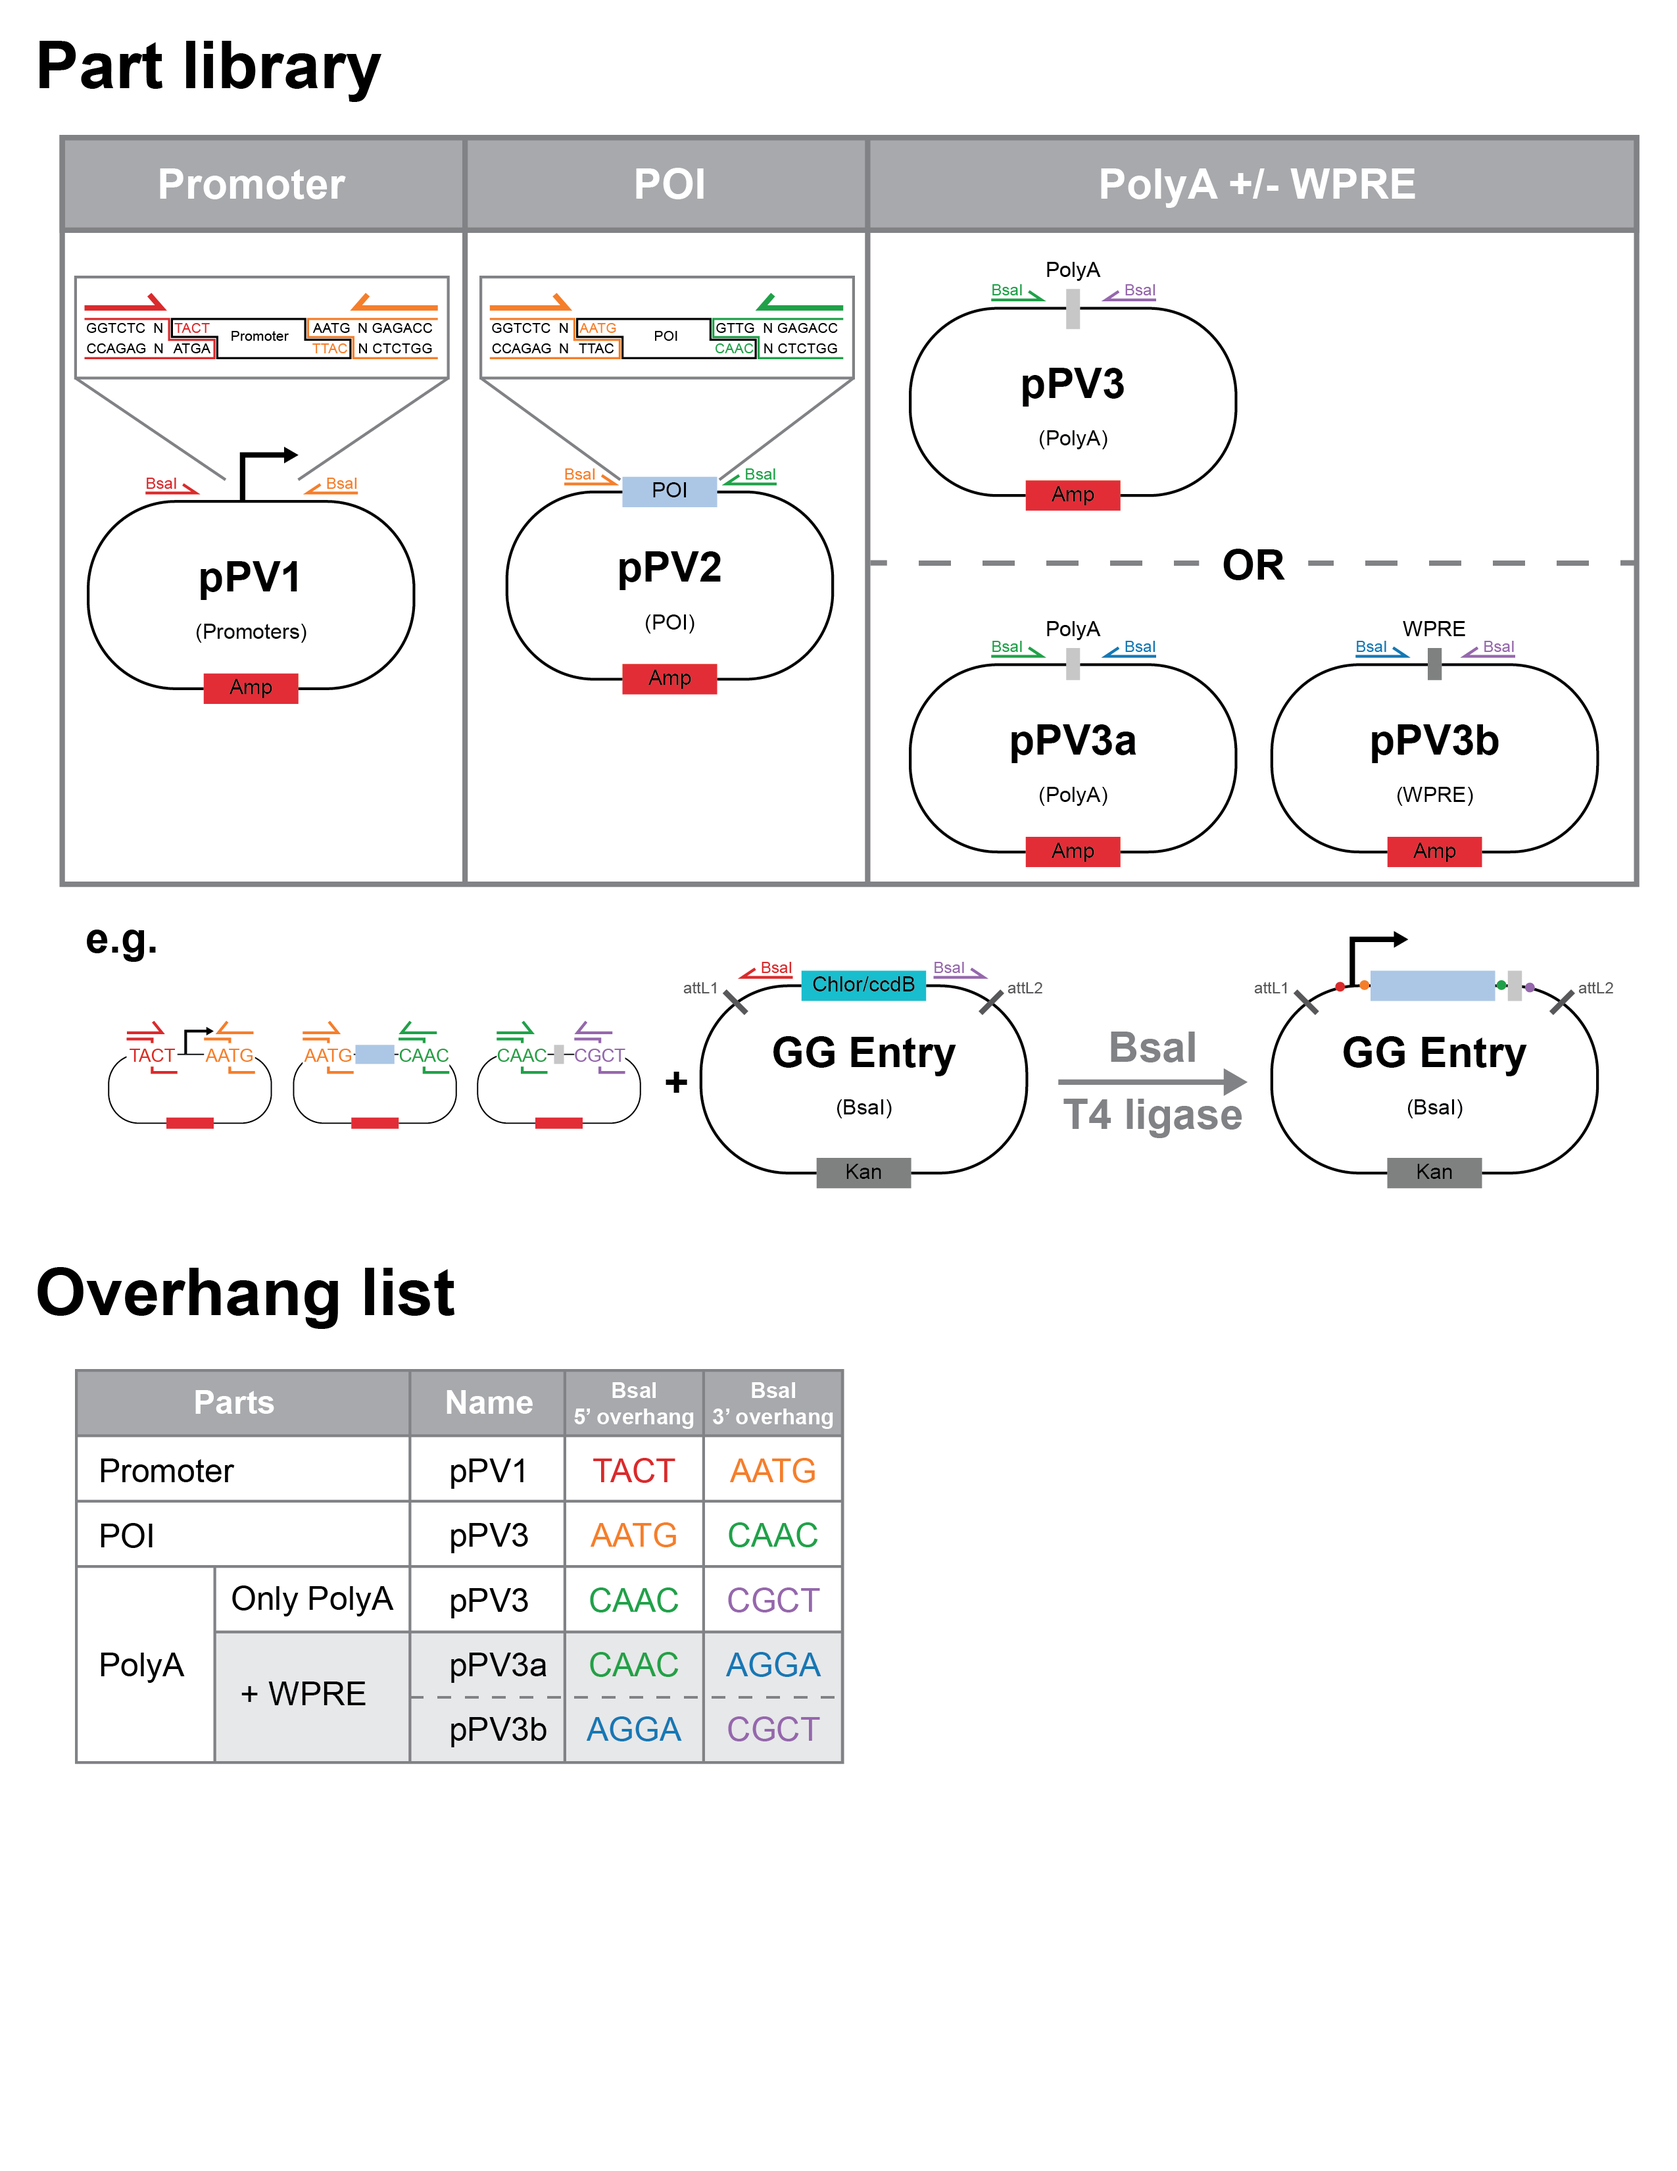
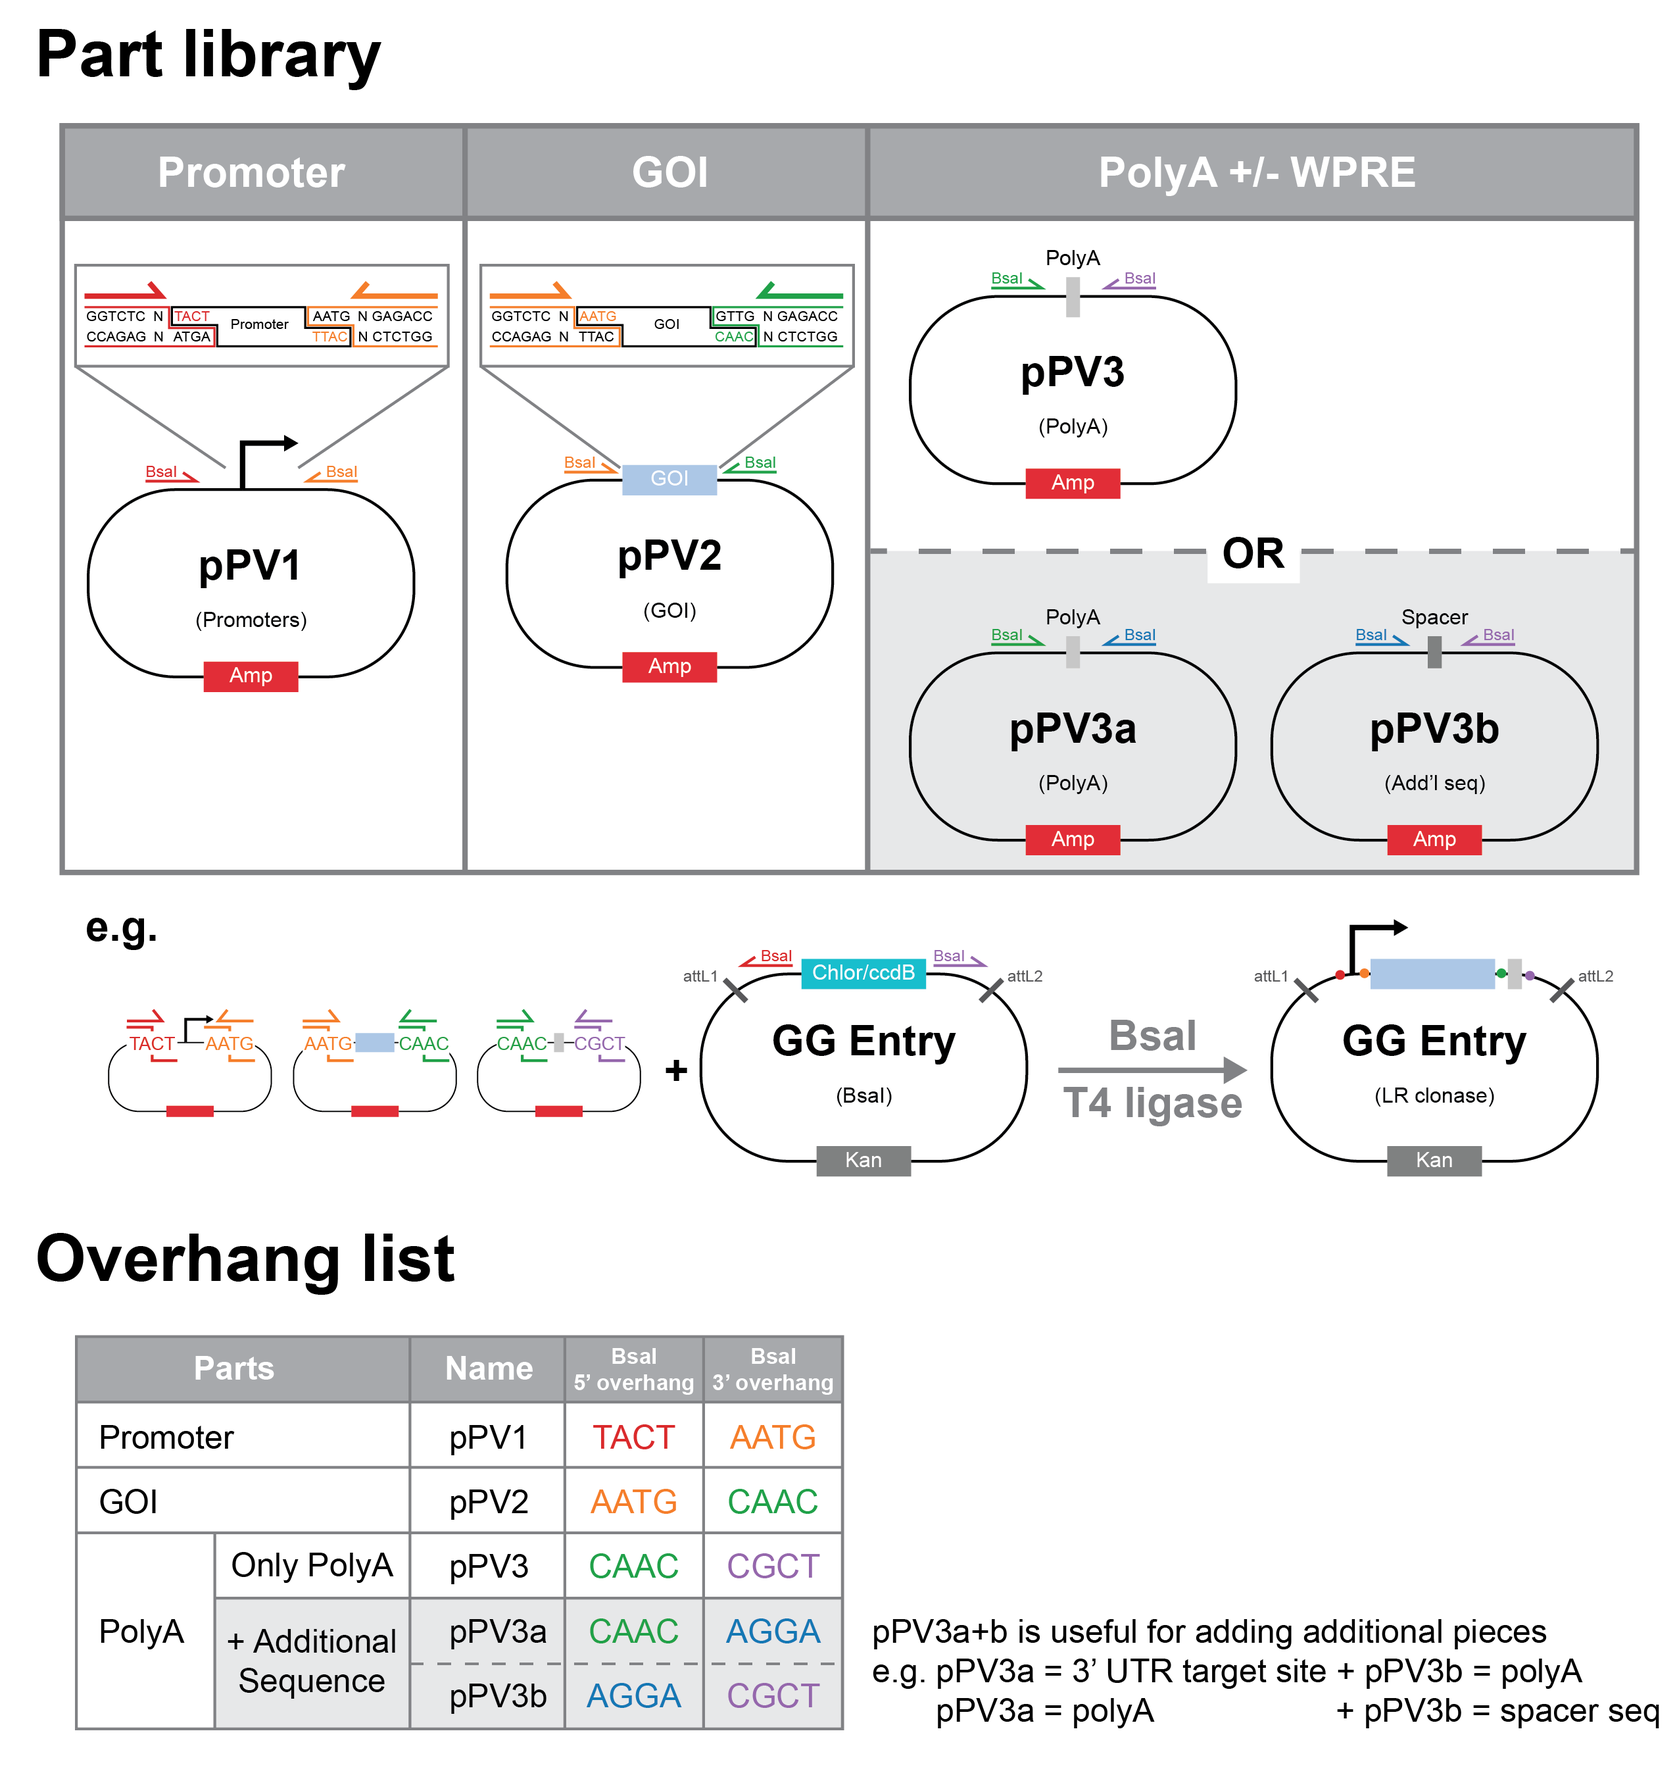
Update to golden gate ref images

diff --git a/docs/protocols/cloning/golden_gate.rst b/docs/protocols/cloning/golden_gate.rst
@@ -41,7 +41,18 @@ Protocol
 5. Store unused Golden Gate assembly products at -20°C
 
 
-.. image:: cloning_images/GG_pPV_ref.svg
+
+Reference for pPV connector sequences
+==========================================
+
+.. image:: cloning_images/GG_pPV_ref.png
+
+
+
+Reference for entire Golden Gate workflow
+==========================================
+
+.. image:: cloning_images/GG_whole_workflow.png
 
 
 Citations
